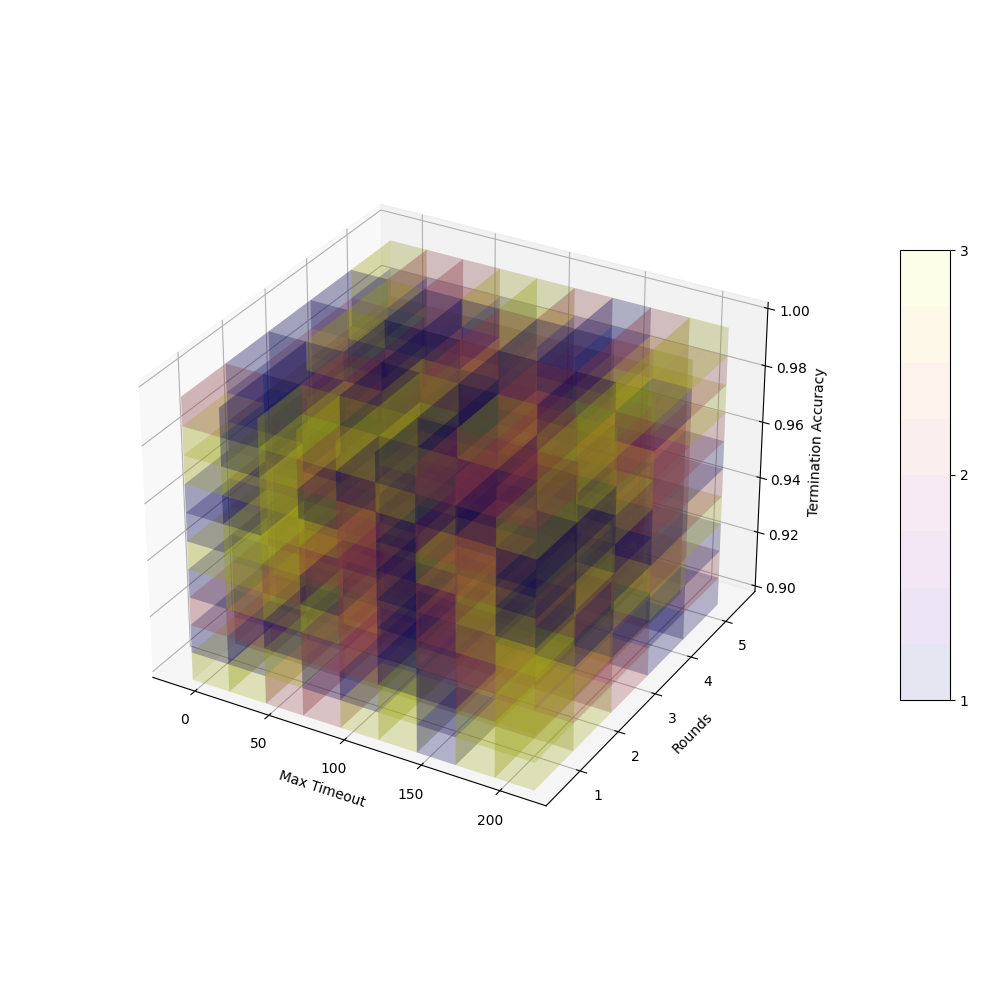
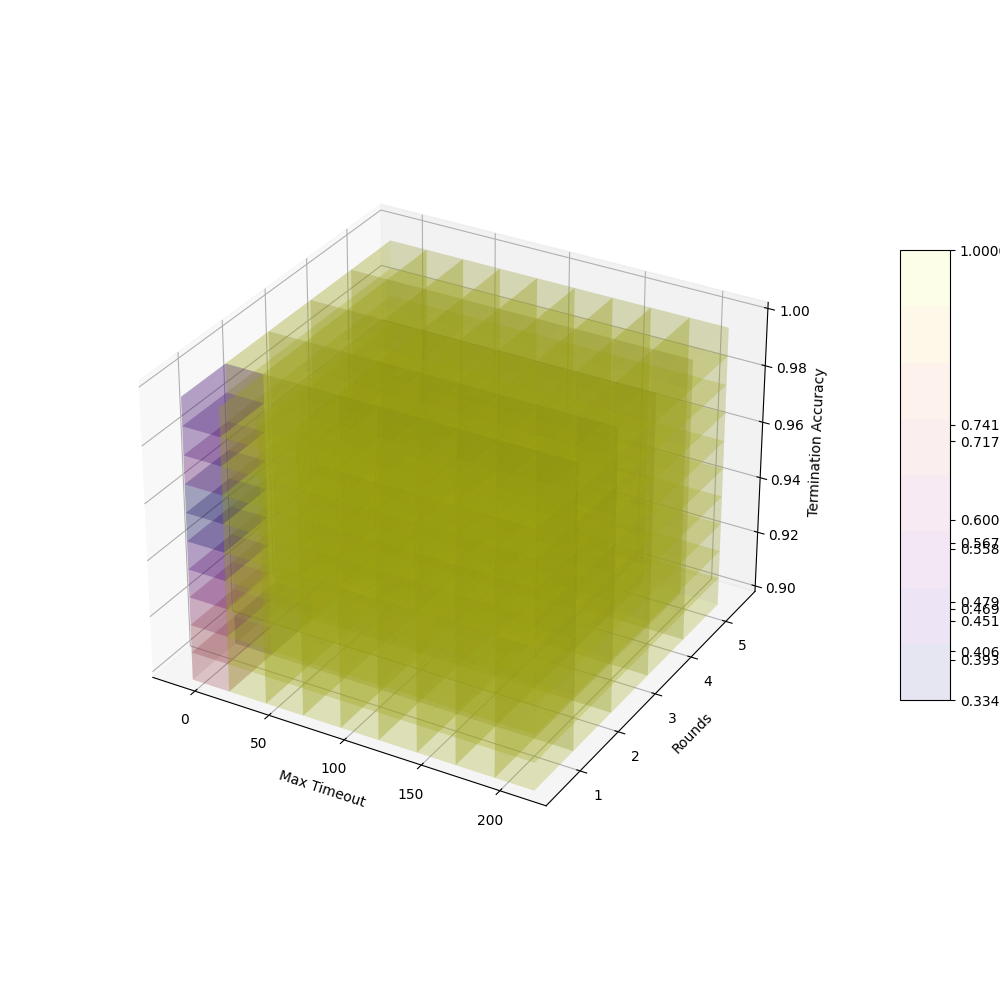
Template code works

diff --git a/Visualization/hyperparemeter_visualization.py b/Visualization/hyperparemeter_visualization.py
@@ -75,20 +75,22 @@ if __name__ == '__main__':
     # print(Loss_vals[0])
 
     data_value = np.zeros((len(x), len(y), len(z)))
-    # print(data_value.size)
-    # Loss_vals_0 = np.zeros(450)
+    print(data_value.size)
+
+    Loss_vals_0 = np.ones(450)
     # for num, item in enumerate(Loss_vals):
-    #     Loss_vals_0[num] = Loss_vals_0[num * 2]
+    for num in range(0, 11):
+        Loss_vals_0[num] = Loss_vals[num * 2]
 
-    # counter = 0
-    # for x in range(0, 9):
-    #     for y in range(0, 5):
-    #         for z in range(0, 10):
-    #             data_value[x][y][z] = Loss_vals_0[counter]
-    #             counter += 1
-    data_value = np.random.randint(1, 4, size=(len(x), len(y), len(z)))
+    # print(Loss_vals_0)
 
-    print(data_value)
+    counter = 0
+    for a in range(0, 9):
+        for b in range(0, 5):
+            for c in range(0, 10):
+                data_value[a, b, c] = Loss_vals_0[counter]
+                counter += 1
+    # print(data_value)
 
     fig = plt.figure(figsize=(10, 10))
     ax = fig.add_axes([0.1, 0.1, 0.7, 0.8], projection='3d')
